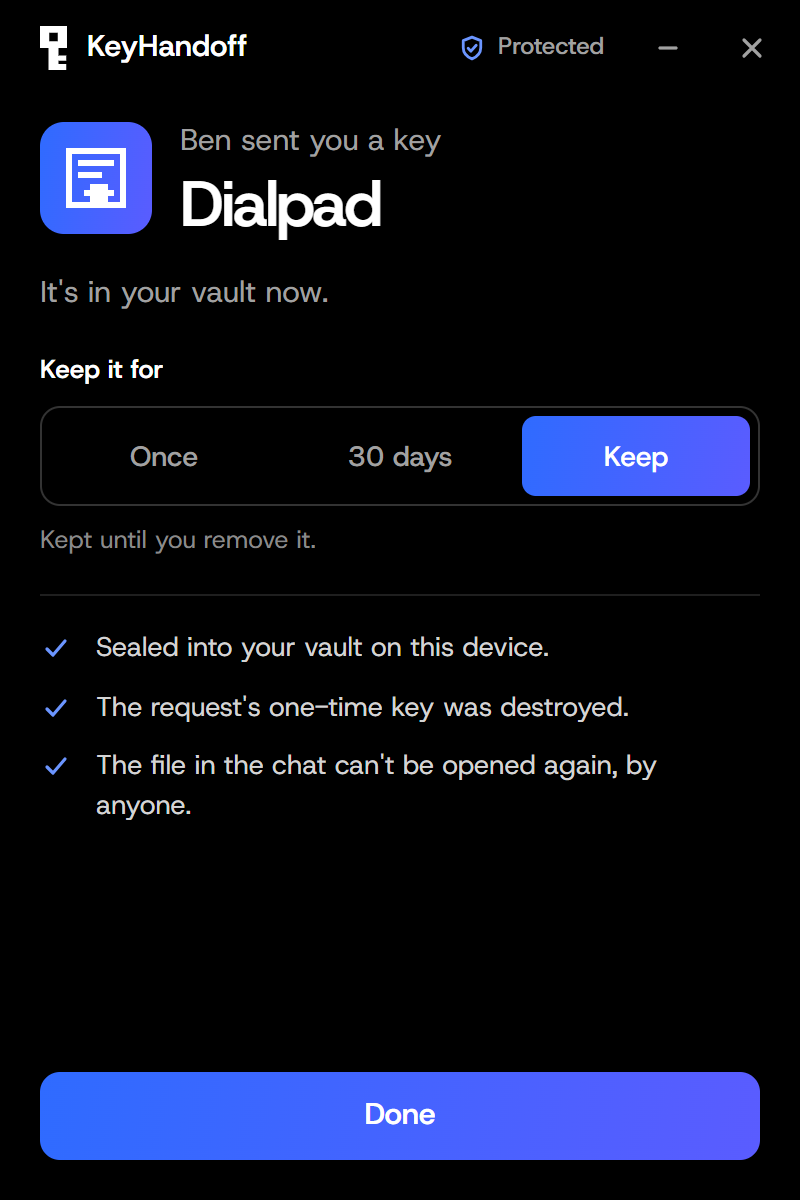
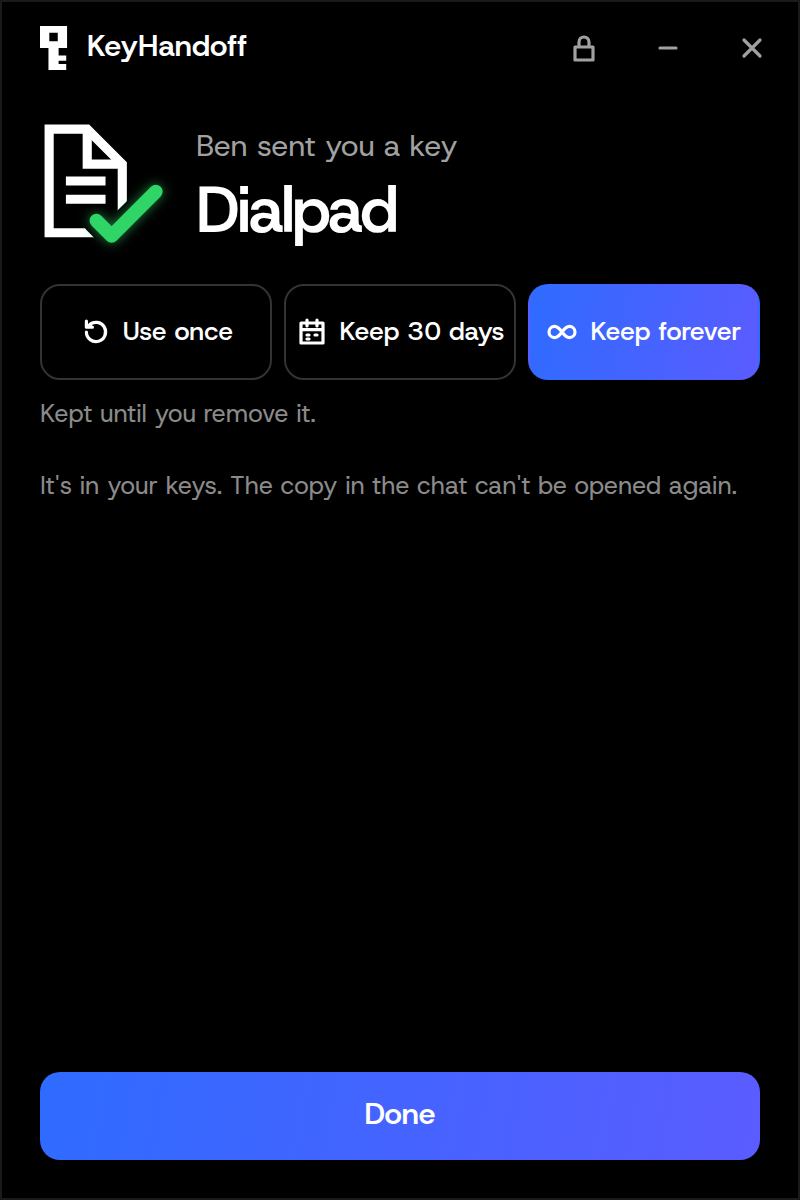
HAND-80: HAND-80: keyhandoff.dev now shows cards instead of requests (Share your card, Catch, Seal, Keep, with the card file on the wire) and a team line. It adds "Locked when you're away" (passphrase or TPM PIN) to the solo features and the built-in grid. The feature list adds teams and the vault l

diff --git a/site/src/docs.ts b/site/src/docs.ts
@@ -17,9 +17,9 @@ export const docs = defineDocs({
   title: "KeyHandoff",
   lead: "Hand off API keys without exposing them.",
   facts: defineFacts({
-    platforms: { value: "Windows and Linux (X11)", reviewed: "2026-10-30" },
-    status: { value: "pre-release and has not had a security audit", reviewed: "2026-10-30" },
-    network: { value: "no servers, accounts, telemetry or network code", reviewed: "2026-10-30" },
+    platforms: { value: "Windows and Linux (X11)", reviewed: "2026-10-31" },
+    status: { value: "pre-release and has not had a security audit", reviewed: "2026-10-31" },
+    network: { value: "no servers, accounts, telemetry or network code", reviewed: "2026-10-31" },
   }),
   sections: [
     {
@@ -28,7 +28,7 @@ export const docs = defineDocs({
       question: "What is KeyHandoff?",
       answer: "KeyHandoff is a small desktop app for handing someone an API key, or any other secret, without pasting it into a chat or leaving it in a plain file. It has {fact:network}.",
       blocks: [
-        { kind: "p", text: "Requests and keys travel as ordinary files over whatever channel you already use. The key is never displayed on screen." },
+        { kind: "p", text: "Cards and keys travel as ordinary files over whatever channel you already use. The key is never displayed on screen." },
         { kind: "callout", tone: "warn", text: "KeyHandoff is {fact:status}. Use it with test keys for now." },
       ],
     },
@@ -36,18 +36,18 @@ export const docs = defineDocs({
       id: "how-it-works",
       title: "How it works",
       question: "How does KeyHandoff hand off a key?",
-      answer: "The receiver sends a request file, the sender catches the key from the provider's page and seals it, and the receiver opens the sealed file once to keep the key in a vault.",
+      answer: "The receiver sends their card once. After that, the sender picks them in Send a key, catches the key from the provider's page and seals it, and the receiver opens the sealed file once to keep the key in their vault.",
       blocks: [
         {
           kind: "steps",
           items: [
-            { title: "Ask", text: "Click Request a key and send the request file to whoever has the key." },
-            { title: "Catch", text: "They copy the key from the provider's page. KeyHandoff catches that one copy and wipes the clipboard." },
+            { title: "Share your card", text: "Click Your card and send the file to whoever will send you keys. It holds no secret, and each copy is good for 12 keys." },
+            { title: "Catch", text: "They click Send a key, pick you, and copy the key from the provider's page. KeyHandoff catches that one copy and wipes the clipboard." },
             { title: "Seal", text: "They name the key and it's encrypted so only your computer can open it, and only once. They send you the file and keep nothing." },
             { title: "Keep", text: "You open the file. The key goes into your vault, and every copy of the sealed file becomes permanently unreadable." },
           ],
         },
-        { kind: "p", text: "You can also catch a key for yourself with Add your own, which involves no files." },
+        { kind: "p", text: "Sending to a team catches the key once and seals a copy for every member, in one file. You can also catch a key for yourself with Add a key, which involves no files." },
       ],
     },
     {
@@ -58,10 +58,21 @@ export const docs = defineDocs({
       blocks: [{ kind: "p", text: "Nothing watches the clipboard the rest of the time." }],
     },
     {
+      id: "locking",
+      title: "Locking",
+      question: "How is the vault locked?",
+      answer: "KeyHandoff starts locked, and your passphrase opens it. It locks again when the computer sleeps or the screen locks. A recovery code you write down at setup always gets you back in.",
+      blocks: [
+        { kind: "p", text: "While it's locked, a program running as you can read every KeyHandoff file and still can't open a key. A program that asks for a key while it's locked brings the window forward and waits for you." },
+        { kind: "p", text: "In Security, at the bottom of the home screen, you can unlock with a short PIN instead, where the computer has a TPM KeyHandoff can use (Linux for now). The TPM checks the PIN and stops anyone guessing it. KeyHandoff only uses hardware your computer already has." },
+        { kind: "callout", tone: "warn", text: "Remember on this computer opens KeyHandoff without asking. It's off unless you turn it on, because any program running as you could then open your keys." },
+      ],
+    },
+    {
       id: "limits",
       title: "What it protects, and what it doesn't",
       question: "What does KeyHandoff not protect against?",
-      answer: "KeyHandoff can't stop a program watching the clipboard from reading a key at the moment you copy it, or stop malware running as you from reaching the vault. A program you allow can do anything with the key it gets.",
+      answer: "KeyHandoff can't stop a program watching the clipboard from reading a key at the moment you copy it, or stop malware running as you from reaching the vault while it's unlocked. A program you allow can do anything with the key it gets.",
       blocks: [
         {
           kind: "p",

diff --git a/scripts/site-shots/tauri-mock.ts b/scripts/site-shots/tauri-mock.ts
@@ -1,6 +1,6 @@
 // Stands in for @tauri-apps/api so the real screens render in a plain browser,
 // for the website's screenshots and the screen board. All data here is sample data.
-import type { ContactView, KeyView, SafeState, TeamView, View } from "../../src/ipc";
+import type { ContactView, GateView, KeyView, SafeState, TeamView, View } from "../../src/ipc";
 
 const NOW = Math.floor(Date.now() / 1000);
 const DAY = 24 * 60 * 60;
@@ -33,7 +33,10 @@ function safe(state: SafeState, forName: string | null = "Ann", apps: string[] =
 const HOME: View = {
   name: "Ann",
   computer: "72ca77a8cc39c3ba",
-  protection: "dpapi",
+  protection: "passphrase",
+  remembered: false,
+  pin: false,
+  tpm: "ready",
   keep: "keep",
   keys: KEYS,
   pending: 0,
@@ -52,7 +55,6 @@ const SCENES: Record<string, Partial<View>> = {
   home: {},
   "home-empty": { keys: [] },
   card: { keys: [], asked: "KeyHandoff card - Ann.handoff" },
-  ask: { keys: [], asked: "KeyHandoff card - Ann.handoff" }, // the site's screenshot name
   added: { name: "Ben", keys: [], added: ANN },
   "send-empty": { name: "Ben", keys: [], contacts: [] },
   "listening-team": { name: "Ben", safe: { ...safe("listening", "Platform"), for_computer: null, for_team: true } },
@@ -76,9 +78,22 @@ const SCENES: Record<string, Partial<View>> = {
   timeout: { safe: safe("timeout", null) },
 };
 
+const OPEN: GateView = { state: "open", migrating: false, recovery: null, min_passphrase: 12, pin: false, min_pin: 4 };
+
+// Before the vault opens: the scenes with no view.
+const GATES: Record<string, Partial<GateView>> = {
+  setup: { state: "setup" },
+  migrate: { state: "setup", migrating: true },
+  recovery: { recovery: "7K2Q-9MXD-4RTV-HB3N-0PWE-6YJC-8FAZ-2KGS" },
+  locked: { state: "locked" },
+  "locked-pin": { state: "locked", pin: true },
+};
+
 const scene = new URLSearchParams(location.search).get("s") ?? "home";
 
 export async function invoke(cmd: string): Promise<unknown> {
+  if (cmd === "gate") return { ...OPEN, ...GATES[scene] };
+  if (cmd === "suggest") return "flashing marathon rebate handset repeater";
   return cmd === "view" ? { ...HOME, ...SCENES[scene] } : undefined;
 }
 

diff --git a/scripts/site-shots/board.html b/scripts/site-shots/board.html
@@ -56,6 +56,17 @@
           ["program", "You", "A script asks for a key", MAIN],
           ["home-copied", "You", "Copy .env line on a key row", MAIN],
         ]],
+        ["Lock and unlock", [
+          ["setup", "You", "First start: choose a passphrase", MAIN],
+          ["setup", "You", "Or take five suggested words", MAIN, ["Suggest five"]],
+          ["recovery", "You", "Write down the recovery code", MAIN],
+          ["locked", "You", "Locked again after sleep or screen lock", MAIN],
+          ["home", "You", "Security: how it opens", MAIN, ["Security"]],
+          ["home", "You", "Add a PIN (needs a TPM)", MAIN, ["Security", "Add a PIN"]],
+          ["locked-pin", "You", "With a PIN, it asks for that first", MAIN],
+          ["home", "You", "Remember on this computer, and its warning", MAIN, ["Security", "Remember here"]],
+          ["migrate", "You", "An older profile moves behind a passphrase", MAIN],
+        ]],
         ["When it doesn't go to plan", [
           ["listening-apps", "You", "A clipboard app is running", SAFE],
           ["listening-read-app", "You", "Something read the bait, and Ditto is running", SAFE],

diff --git a/README.md b/README.md
@@ -2,7 +2,7 @@
 
 **API keys, hands off.**
 
-KeyHandoff is a small desktop app for handing someone an API key, or any other secret, without pasting it into a chat or leaving it in a plain file. There are no servers and no accounts. Requests and keys travel as ordinary files over whatever channel you already use.
+KeyHandoff is a small desktop app for handing someone an API key, or any other secret, without pasting it into a chat or leaving it in a plain file. There are no servers and no accounts. Cards and keys travel as ordinary files over whatever channel you already use.
 
 Encrypting a key at rest is the easy part. The real exposure comes from people handling it: looking at it, copying it, pasting it into a chat, saving it in a `.env` file. KeyHandoff keeps custody of the key from the provider's page onward, so people and their tools handle it as little as possible.
 
@@ -31,6 +31,19 @@ Ben can keep sending Ann keys until her card's locks run out; then he asks for a
 **Teams.** In **Send a key**, **New team** groups some of your contacts under a name. Sending to a team catches the key once and seals it to every member in one file; you keep a copy too, filed under the team. **Welcome** on a member sends them every key you hold that was shared with the team, so someone new gets them all. There's no server, so a team lives on each person's computer: anyone can set up the same team to share with it, and everyone on it needs to have sent you their card.
 
 To keep a key of your own, click **Add a key**, copy the key on the provider's page and name it. No files are involved. KeyHandoff has no way to show a key on screen.
+
+## Locking
+
+KeyHandoff starts locked. The first time, you choose a passphrase, or take five suggested words, and write down the recovery code it shows once. After that, the passphrase opens it.
+
+It locks again when the computer sleeps, when the screen locks, and from the lock button in the title bar. To also lock after a quiet spell, set `lock_after_minutes` in the profile's `settings.json`. A program that asks for a key while it's locked brings the window forward and waits up to two minutes for you.
+
+**Security**, at the bottom of the home screen, has two options:
+
+- **PIN instead of the passphrase**, where the computer has a TPM KeyHandoff can use. The key is sealed inside the TPM, which checks the PIN and stops anyone guessing it, so the PIN can be short. On Linux the TPM belongs to the `tss` group: run `sudo usermod -aG tss $USER` and sign in again. A TPM that's switched off in the firmware settings shows as none. Windows uses Windows Hello instead (coming).
+- **Remember on this computer**, which opens KeyHandoff without asking and keeps it open through sleep and screen lock. It's off unless you turn it on: any program running as you could then open your keys.
+
+The passphrase and recovery code always work. If you lose both, the keys can't be opened by anyone, you included.
 
 ## Safe Copy
 
